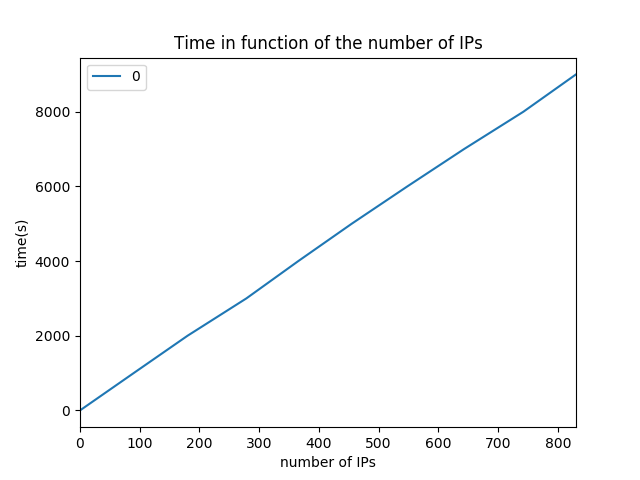
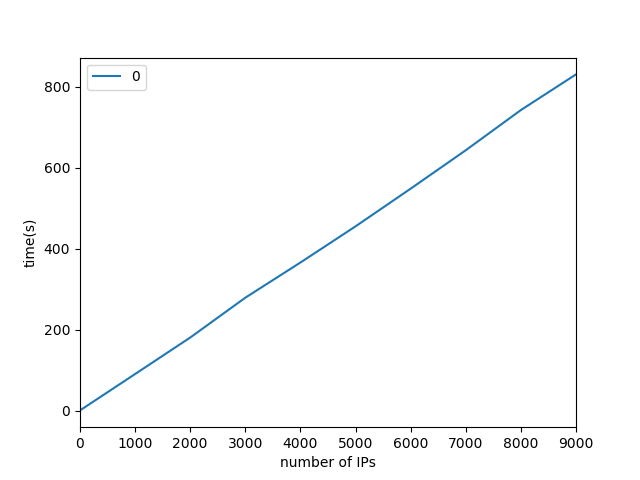
del sightings

diff --git a/rules_matching/encrypt/readMisp.py b/rules_matching/encrypt/readMisp.py
@@ -36,13 +36,12 @@ parser = argparse.ArgumentParser(description='Create an encrypted IOC \
 parser.add_argument('--hash', dest='hash_name', default='sha256',
         help='hash function to use')
 parser.add_argument('--iterations', type=int, default=10000,
-        help='iterations needed before the decryption key is derived. (Follow pbkdf2-sha256 recommandations) ')
+        help='iterations of pbkdf2.')
 parser.add_argument('--ipiterations', type=int, default=100000,
-        help='iterations needed before the decryption key is derived\
+        help='iterations of pbkdf2 \
                 for ip. Please take care of this parameter.')
-parser.add_argument('--misp', default='csv',
-        help='csv => misp attributes in /res/misp_events.csv \n ;\
-                mysql => get attributes from the database (need configuration.py)')
+parser.add_argument('--misp', default='web',
+        help='web (for web api);mysql (directly from mysql)')
 parser.add_argument('-v', '--verbose',\
         dest='verbose', action='store_true',\
         help='Explain what is being done')
@@ -201,7 +200,7 @@ if __name__ == "__main__":
 
     # fill IOC list
     printv("Get IOCs from " + args.misp)
-    if args.misp == 'csv':
+    if args.misp == 'web':
         ioc_csv()
     elif args.misp == 'mysql':
         ioc_mysql()

diff --git a/rules_matching/decrypt/match_rules.py b/rules_matching/decrypt/match_rules.py
@@ -172,7 +172,7 @@ def dico_matching(attributes, queue, lock):
                 metadata['dklen'], rule['nonce'], ciphertext, rule_attr)
 
         if match:
-            queue.put("IOC '{}' matched for: {}\nSecret Message\n================\n{}\n".format(conf.misp_token, attributes, plaintext.decode('utf-8')))
+            queue.put("IOC matched for: {}\nSecret Message (uuid-event id-date)\n===================================\n{}\n".format(attributes, plaintext.decode('utf-8')))
 
 def argument_matching(values=args.attribute):
     attributes = dict(pair.split("=") for pair in values)

diff --git a/rules_matching/gen_graph.py b/rules_matching/gen_graph.py
@@ -45,7 +45,7 @@ with open(args.filename, 'r') as csvfile:
             y.append(float(row[args.y]))
         first = False
 
-s = pd.Series(x, index=y)
+s = pd.Series(y, index=x)
 df = pd.DataFrame(s)
 fig = df.plot()
 fig.set_xlabel(namex)
